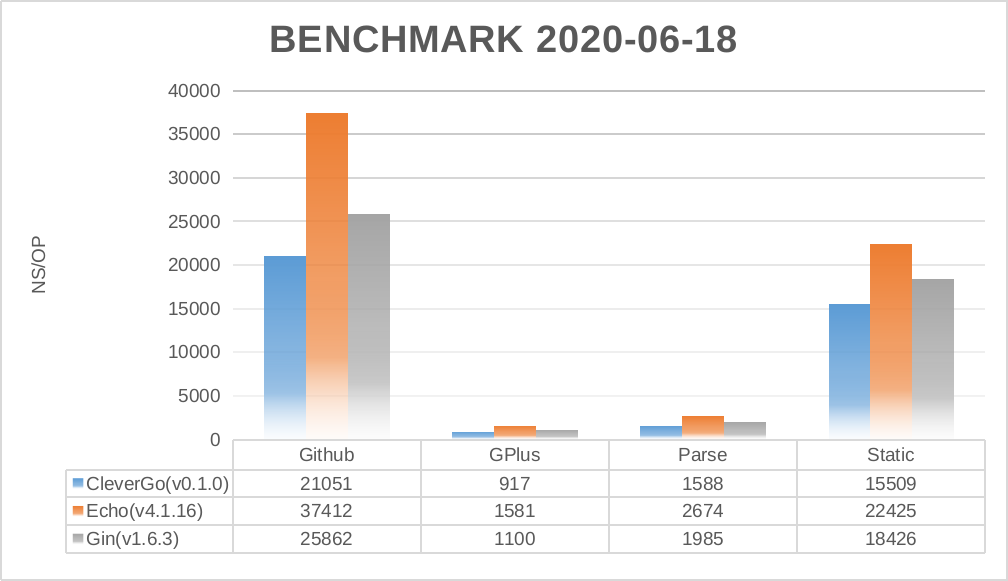
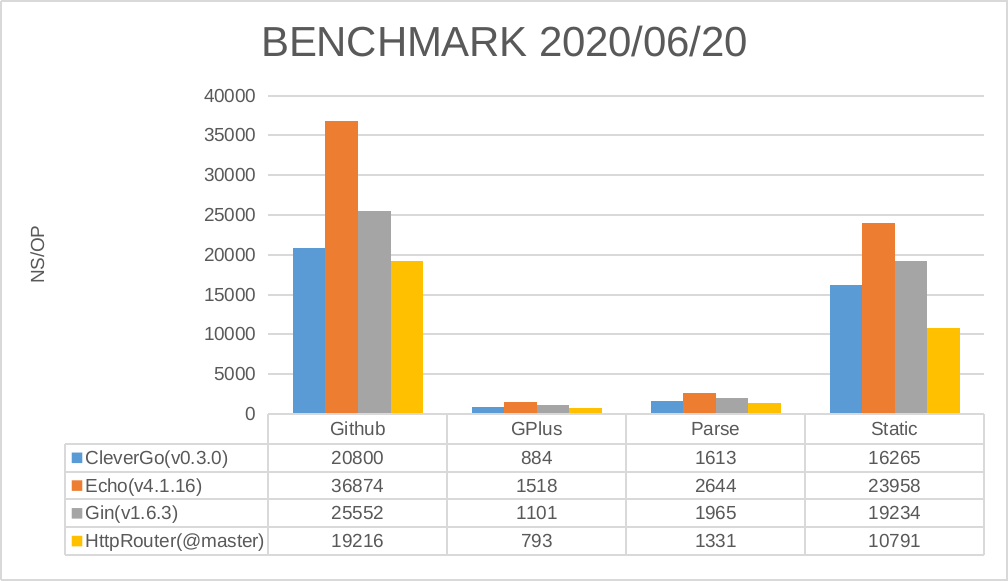
Update benchmark

Changed region(s): [[0.0615, 0.1239, 0.9841, 0.9604], [0.246, 0.031, 0.7381, 0.0929], [0.0308, 0.4028, 0.0615, 0.4957]]

diff --git a/layouts/shortcodes/benchmark.md b/layouts/shortcodes/benchmark.md
@@ -1,81 +1,5 @@
-* Date: 2020/06/18
-* Go: 1.14
 * [Source](https://github.com/razonyang/go-http-routing-benchmark)
 
 **Lower is better!**
 
 ![Benchmark](/img/benchmark.png)
-
-| | Version |
-| ---: | --- |
-| CleverGo | v0.1.0 |
-| Echo | v4.1.16 |
-| Gin | v1.6.3 |
-| HttpRouter | master |
-
-```text
-BenchmarkEcho_Param                     16608495                72.7 ns/op             0 B/op          0 allocs/op
-BenchmarkGin_Param                      18492751                62.0 ns/op             0 B/op          0 allocs/op
-BenchmarkHttpRouter_Param               27649080                45.5 ns/op             0 B/op          0 allocs/op
-BenchmarkCleverGo_Param                 23644378                50.3 ns/op             0 B/op          0 allocs/op
-BenchmarkEcho_Param5                     6862722               176 ns/op               0 B/op          0 allocs/op
-BenchmarkGin_Param5                     11727897               103 ns/op               0 B/op          0 allocs/op
-BenchmarkHttpRouter_Param5              13724848                86.1 ns/op             0 B/op          0 allocs/op
-BenchmarkCleverGo_Param5                12594856                93.9 ns/op             0 B/op          0 allocs/op
-BenchmarkEcho_Param20                    2223610               552 ns/op               0 B/op          0 allocs/op
-BenchmarkGin_Param20                     4304322               261 ns/op               0 B/op          0 allocs/op
-BenchmarkHttpRouter_Param20              5041107               238 ns/op               0 B/op          0 allocs/op
-BenchmarkCleverGo_Param20                4918911               243 ns/op               0 B/op          0 allocs/op
-BenchmarkEcho_ParamWrite                 6848887               177 ns/op               8 B/op          1 allocs/op
-BenchmarkGin_ParamWrite                 10034564               120 ns/op               0 B/op          0 allocs/op
-BenchmarkHttpRouter_ParamWrite          15606183                74.8 ns/op             0 B/op          0 allocs/op
-BenchmarkCleverGo_ParamWrite            13882710                88.1 ns/op             0 B/op          0 allocs/op
-BenchmarkEcho_GithubStatic              12774535                91.6 ns/op             0 B/op          0 allocs/op
-BenchmarkGin_GithubStatic               15921393                72.5 ns/op             0 B/op          0 allocs/op
-BenchmarkHttpRouter_GithubStatic        28967665                41.1 ns/op             0 B/op          0 allocs/op
-BenchmarkCleverGo_GithubStatic          18975434                64.0 ns/op             0 B/op          0 allocs/op
-BenchmarkEcho_GithubParam                6686660               180 ns/op               0 B/op          0 allocs/op
-BenchmarkGin_GithubParam                 9932197               124 ns/op               0 B/op          0 allocs/op
-BenchmarkHttpRouter_GithubParam         11650159               100 ns/op               0 B/op          0 allocs/op
-BenchmarkCleverGo_GithubParam           10772011               112 ns/op               0 B/op          0 allocs/op
-BenchmarkEcho_GithubAll                    31489             37412 ns/op               0 B/op          0 allocs/op
-BenchmarkGin_GithubAll                     47378             25862 ns/op               0 B/op          0 allocs/op
-BenchmarkHttpRouter_GithubAll              58173             19658 ns/op               0 B/op          0 allocs/op
-BenchmarkCleverGo_GithubAll                56629             21051 ns/op               0 B/op          0 allocs/op
-BenchmarkEcho_GPlusStatic               17962977                64.6 ns/op             0 B/op          0 allocs/op
-BenchmarkGin_GPlusStatic                16684482                74.9 ns/op             0 B/op          0 allocs/op
-BenchmarkHttpRouter_GPlusStatic         41453244                27.0 ns/op             0 B/op          0 allocs/op
-BenchmarkCleverGo_GPlusStatic           22169737                51.4 ns/op             0 B/op          0 allocs/op
-BenchmarkEcho_GPlusParam                11993016               102 ns/op               0 B/op          0 allocs/op
-BenchmarkGin_GPlusParam                 14431076                78.4 ns/op             0 B/op          0 allocs/op
-BenchmarkHttpRouter_GPlusParam          19364257                59.9 ns/op             0 B/op          0 allocs/op
-BenchmarkCleverGo_GPlusParam            16330616                73.1 ns/op             0 B/op          0 allocs/op
-BenchmarkEcho_GPlus2Params               7901209               149 ns/op               0 B/op          0 allocs/op
-BenchmarkGin_GPlus2Params               12366967                96.7 ns/op             0 B/op          0 allocs/op
-BenchmarkHttpRouter_GPlus2Params        14735076                81.9 ns/op             0 B/op          0 allocs/op
-BenchmarkCleverGo_GPlus2Params          12330756                96.1 ns/op             0 B/op          0 allocs/op
-BenchmarkEcho_GPlusAll                    725527              1581 ns/op               0 B/op          0 allocs/op
-BenchmarkGin_GPlusAll                    1000000              1100 ns/op               0 B/op          0 allocs/op
-BenchmarkHttpRouter_GPlusAll             1495382               796 ns/op               0 B/op          0 allocs/op
-BenchmarkCleverGo_GPlusAll               1288446               917 ns/op               0 B/op          0 allocs/op
-BenchmarkEcho_ParseStatic               17562513                68.1 ns/op             0 B/op          0 allocs/op
-BenchmarkGin_ParseStatic                20118867                58.9 ns/op             0 B/op          0 allocs/op
-BenchmarkHttpRouter_ParseStatic         45820228                25.6 ns/op             0 B/op          0 allocs/op
-BenchmarkCleverGo_ParseStatic           24270544                49.2 ns/op             0 B/op          0 allocs/op
-BenchmarkEcho_ParseParam                14369294                84.1 ns/op             0 B/op          0 allocs/op
-BenchmarkGin_ParseParam                 17899891                64.3 ns/op             0 B/op          0 allocs/op
-BenchmarkHttpRouter_ParseParam          24373110                47.7 ns/op             0 B/op          0 allocs/op
-BenchmarkCleverGo_ParseParam            21544585                54.2 ns/op             0 B/op          0 allocs/op
-BenchmarkEcho_Parse2Params              11008596               107 ns/op               0 B/op          0 allocs/op
-BenchmarkGin_Parse2Params               15956736                78.3 ns/op             0 B/op          0 allocs/op
-BenchmarkHttpRouter_Parse2Params        19648192                61.8 ns/op             0 B/op          0 allocs/op
-BenchmarkCleverGo_Parse2Params          16037846                68.0 ns/op             0 B/op          0 allocs/op
-BenchmarkEcho_ParseAll                    408250              2674 ns/op               0 B/op          0 allocs/op
-BenchmarkGin_ParseAll                     629155              1985 ns/op               0 B/op          0 allocs/op
-BenchmarkHttpRouter_ParseAll              972379              1271 ns/op               0 B/op          0 allocs/op
-BenchmarkCleverGo_ParseAll                693435              1588 ns/op               0 B/op          0 allocs/op
-BenchmarkEcho_StaticAll                    53402             22425 ns/op               0 B/op          0 allocs/op
-BenchmarkGin_StaticAll                     64755             18426 ns/op               0 B/op          0 allocs/op
-BenchmarkHttpRouter_StaticAll             105960             10811 ns/op               0 B/op          0 allocs/op
-BenchmarkCleverGo_StaticAll                78554             15509 ns/op               0 B/op          0 allocs/op
-```
